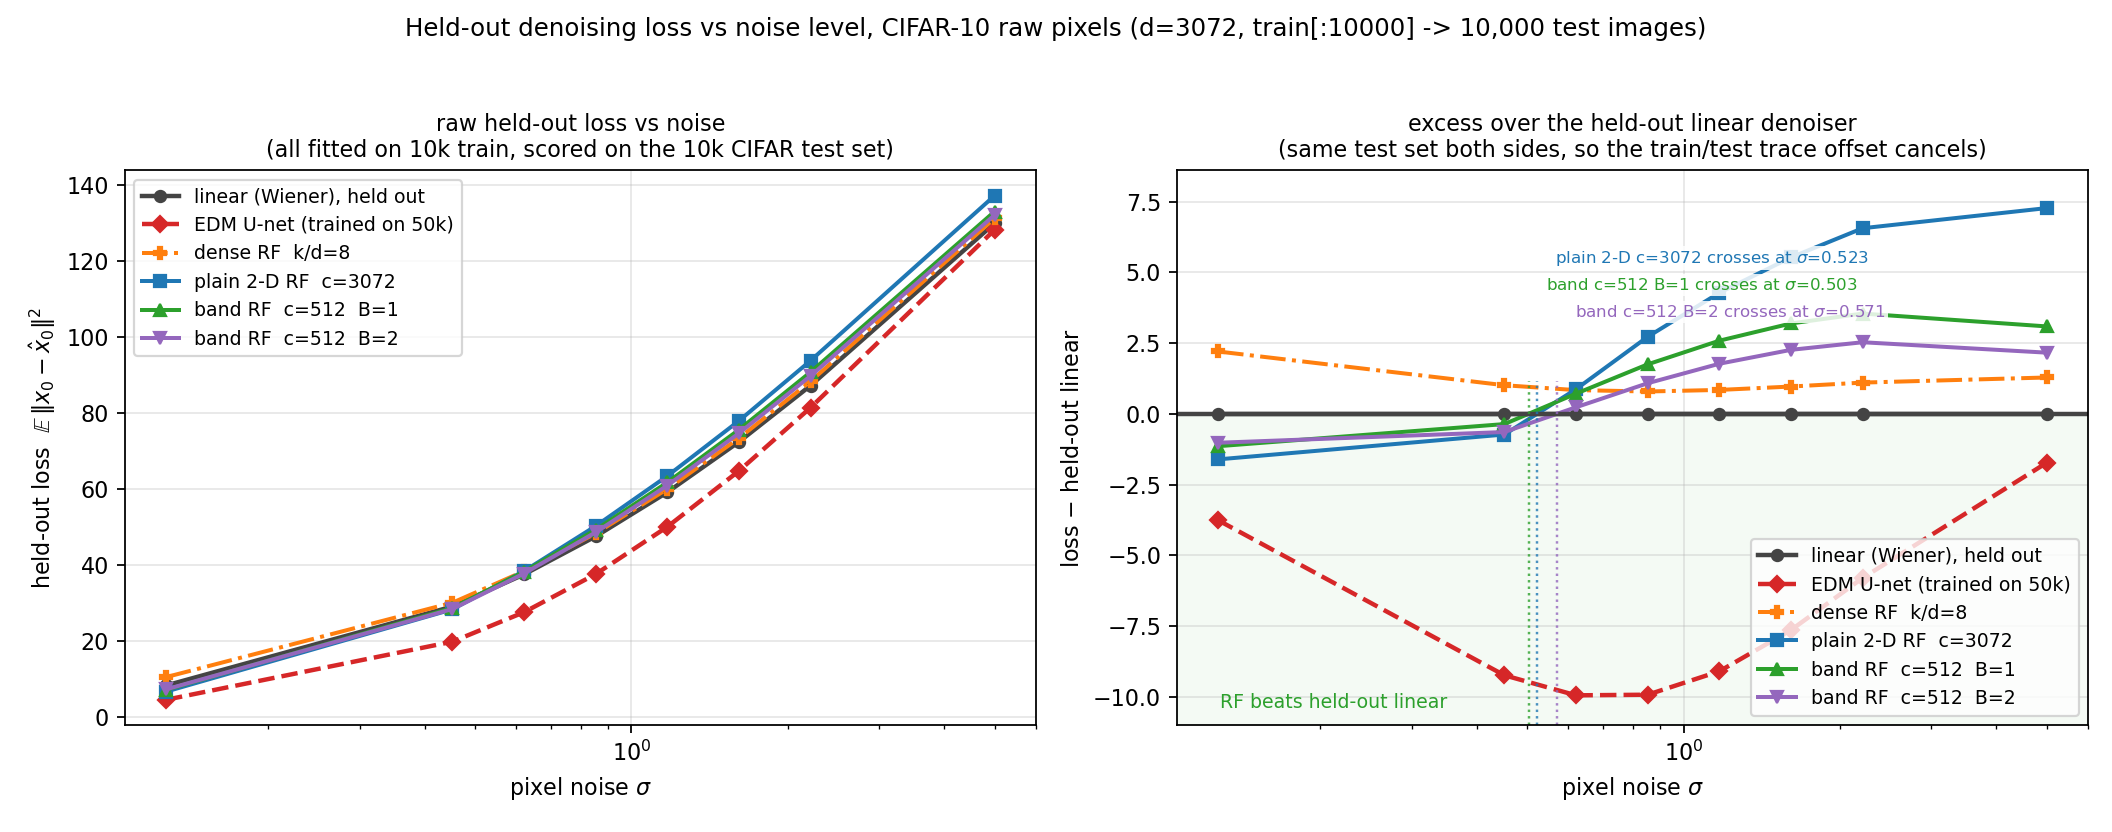
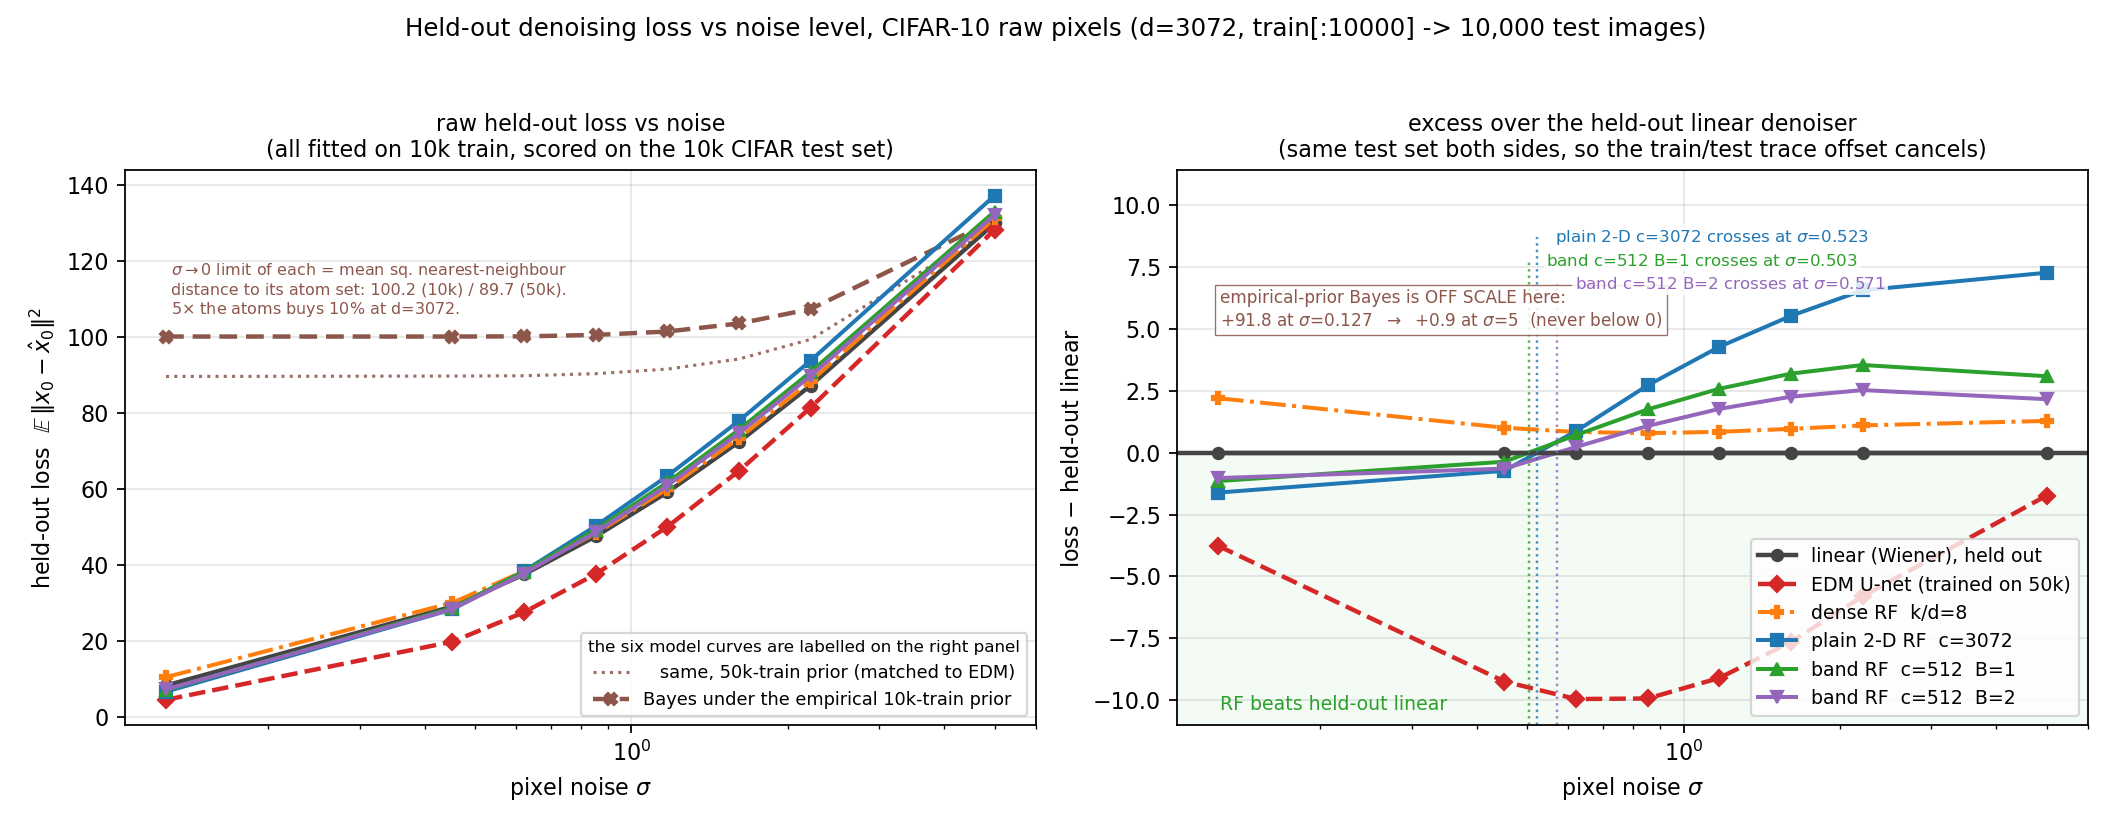
Add the held-out empirical-prior Bayes oracle to the loss-vs-noise figure
michimin 2026-09-23 21:28: "add bayes oracle to the graph".

The oracle that exists in this project (bayes_uncond in dnn_feature_mmse_*.png) was
RETRACTED on 2026-08-10: it evaluates the posterior mean over N=10^4 atoms on noised
versions of THOSE SAME ATOMS, N_eff = 1.00 at every sigma <= 1.61, so its MMSE -> 0 is
memorisation and it lower-bounds nothing.  scripts/bayes_oracle_heldout.py fixes it by the
single substitution atoms = train[:10000], targets = the 10,000 CIFAR TEST images: the
exact Bayes risk of the empirical TRAINING prior, measured on data it has never seen.

It is NOT a lower bound on the plot and is not described as one -- the population Bayes
risk is unestimable at d=3072 with 10^4 atoms.  It is a reference for one specific
question: what does a model that reproduces its empirical training prior perfectly score
on held-out images?

Five asserted validations, all exact: brute force vs an explicit python loop at two sigma;
sigma->inf must equal E||x0_test - mu_train||^2; sigma->0 held out must equal the mean
squared nearest-neighbour distance (0.0e+00); sigma->0 in sample must be ~0, which
regenerates the retracted artefact on demand.

Results (NREP=4, tables/bayes_oracle_heldout.npz):
  - the held-out oracle NEVER beats linear, at any sigma, and is +91.8 behind at 0.127;
  - its low-sigma plateau IS the mean squared NN distance (100.1735 vs 100.1578);
  - N_eff = 1.00 at low sigma in BOTH columns.  The difference is not the posterior's
[…]

diff --git a/scripts/bayes_oracle_heldout.py b/scripts/bayes_oracle_heldout.py
@@ -1,0 +1,205 @@
+"""THE BAYES ORACLE FOR THE EMPIRICAL TRAINING PRIOR, HELD OUT (michimin, 2026-09-23 21:28
+"add bayes oracle to the graph").
+
+*** THE IN-SAMPLE VERSION OF THIS CURVE WAS RETRACTED ON 2026-08-10 AND MUST NOT GO ON THE
+PLOT.  THE HELD-OUT VERSION IS A DIFFERENT AND WELL-POSED OBJECT.  READ THIS BEFORE USING
+EITHER. ***
+
+The `bayes_uncond` curve in figures/dnn_feature_mmse_*.png is the posterior mean under the
+EMPIRICAL measure on N = 10^4 CIFAR atoms, evaluated on noised versions of THOSE SAME ATOMS.
+Its reported MMSE falls to ~0 below sigma ~ 0.5, and that is not a property of CIFAR: the
+posterior effective support N_eff = exp(H(w)) measured 1.00 at every sigma <= 1.61, i.e. the
+posterior is a point mass on the very image that generated y.  It is a memoriser being
+scored on its own training set, so it is a LOWER bound on nothing and an oracle for nothing.
+
+Held out, the same estimator becomes meaningful and the pathology disappears by construction:
+
+    x_hat(y) = sum_j w_j x_j,   w_j prop exp(-||y - x_j||^2 / 2 sigma^2),   x_j in TRAIN,
+    L = E_test || x0 - x_hat(x0 + sigma z) ||^2,                            x0 in TEST.
+
+The atoms are the 10,000 TRAIN images and the thing being denoised is a TEST image the atom
+set does not contain, so no weight can ever collapse onto the answer.  What this measures is
+the exact Bayes risk of the EMPIRICAL TRAINING PRIOR on held-out data -- i.e. the loss of a
+model that has learned the training distribution PERFECTLY and learned nothing beyond it.
+That is exactly the object a diffusion model is fitted to approximate, which makes it the
+right reference to put next to EDM: EDM is an approximation to this, and anywhere EDM BEATS
+it, the approximation is generalising rather than reproducing its prior.
+
+⚠ SO IT IS NOT A LOWER BOUND ON THE PLOT AND MUST NOT BE DESCRIBED AS ONE.  The true Bayes
+risk is under the POPULATION prior, which is unestimable at d = 3072 with 10^4 atoms (the
+2026-08-10 N_eff finding: you would need N growing like exp(d)).  The empirical prior is a
+mis-specified prior, and at small sigma it is a very bad one -- it puts all its mass on 10^4
+points and the test image is not one of them.  Expect this curve to be WORSE than linear at
+low sigma, which is the whole point of showing it.
+
+Same contract as every other curve on figures/rf_heldout_band_vs_sigma.png: fitted (here:
+its atoms) on CIFAR train[:10000], scored on the 10,000 CIFAR TEST images.
+
+    NREP=4 python scripts/bayes_oracle_heldout.py
+"""
+import sys, os, time
+sys.path.insert(0, os.path.dirname(os.path.dirname(os.path.abspath(__file__))))
+import numpy as np, torch
+from scripts.rf_pixel_heldout import load, linear_split, DEV, DT, d
+
+SIGS = [float(x) for x in
+        os.environ.get('SIGS', '0.127,0.452,0.621,0.853,1.172,1.610,2.212,5.0').split(',')]
+NIMG = int(os.environ.get('NIMG', '10000'))
+NTEST = int(os.environ.get('NTEST', '10000'))
+NREP = int(os.environ.get('NREP', '4'))
+CHUNK = int(os.environ.get('CHUNK', '500'))
+OUT = os.environ.get('OUT', 'tables/bayes_oracle_heldout.npz')
+
+
+def oracle(atoms, targets, sg, nrep, seed0=0, chunk=CHUNK, want_neff=True):
+    """Posterior mean under the empirical measure on `atoms`, scored on `targets`.
+
+    Returns (mean loss, standard error over the nrep sweeps, median N_eff).
+
+    `atoms` and `targets` are the SAME tensor for the in-sample (memorising) variant and
+    different splits for the held-out one -- that single substitution is the entire
+    difference between the retracted curve and the usable one.
+    """
+    # dimension is inferred, NOT taken from the module-level d -- the validation below runs
+    # 3x4x4 toys through this same function.
+    A = atoms.reshape(atoms.shape[0], -1)
+    T = targets.reshape(targets.shape[0], -1)
+    a2 = (A * A).sum(1)                                   # ||x_j||^2, once
+    per_rep, neffs = [], []
+    for r in range(nrep):
+        g = torch.Generator(device=DEV).manual_seed(4200 + 17 * r)
+        tot, cnt = 0.0, 0
+        for i in range(0, T.shape[0], chunk):
+            x0 = T[i:i + chunk]
+            y = x0 + sg * torch.randn(x0.shape, generator=g, device=DEV, dtype=DT)
+            # ||y - x_j||^2 = ||y||^2 - 2 y.x_j + ||x_j||^2; the ||y||^2 term is constant
+            # across j inside the softmax and is dropped.
+            logw = -(a2.view(1, -1) - 2.0 * (y @ A.T)) / (2.0 * sg ** 2)
+            w = torch.softmax(logw, dim=1)
+            xh = w @ A
+            tot += float(((x0 - xh) ** 2).sum())
+            cnt += x0.shape[0]
+            if want_neff and r == 0:
+                lw = torch.log(w.clamp_min(1e-300))
+                neffs.append(torch.exp(-(w * lw).sum(1)))
+        per_rep.append(tot / cnt)
+    v = np.array(per_rep)
+    ne = float(torch.cat(neffs).median()) if neffs else float('nan')
+    return float(v.mean()), float(v.std(ddof=1) / np.sqrt(len(v))) if len(v) > 1 else 0.0, ne
+
+
+def _validate():
+    """(a) brute force, (b) the sigma -> infinity limit, (c) the sigma -> 0 limits.
+
+    (a) is the one that would catch an algebra error; (b) and (c) pin the two ends against
+    quantities computed by completely different code (a mean, and a nearest-neighbour search).
+    """
+    g = torch.Generator(device=DEV).manual_seed(7)
+    A = torch.randn(40, 3, 4, 4, generator=g, device=DEV, dtype=DT) * 1.3 + 0.2
+    T = torch.randn(11, 3, 4, 4, generator=g, device=DEV, dtype=DT) * 0.9
+    dd = 3 * 4 * 4
+    for sg in (0.4, 1.3):
+        got, _, _ = oracle(A, T, sg, 1, chunk=3)
+        # explicit python loop over the same definition
+        gen = torch.Generator(device=DEV).manual_seed(4200)
+        Af, Tf = A.reshape(40, dd), T.reshape(11, dd)
+        tot = 0.0
+        for i in range(0, 11, 3):
+            x0 = Tf[i:i + 3]
+            y = x0 + sg * torch.randn(x0.shape, generator=gen, device=DEV, dtype=DT)
+            for k in range(x0.shape[0]):
+                lg = torch.tensor([-float(((y[k] - Af[j]) ** 2).sum()) / (2 * sg ** 2)
+                                   for j in range(40)], device=DEV, dtype=DT)
+                ww = torch.exp(lg - lg.max()); ww = ww / ww.sum()
+                tot += float(((x0[k] - ww @ Af) ** 2).sum())
+        ref = tot / 11
+        rel = abs(got - ref) / abs(ref)
+        print(f"  brute force sigma={sg}: {got:.10f} vs {ref:.10f}  rel={rel:.1e} "
+              f"{'OK' if rel < 1e-12 else 'FAIL'}")
+        assert rel < 1e-12
+    # (b) sigma -> infinity: weights flatten, x_hat -> mean(atoms), so the loss must approach
+    # E||x0_test - mu_train||^2 -- computed here without any softmax at all.
+    big = 4000.0
+    got, _, ne = oracle(A, T, big, 1, chunk=5)
+    mu = A.reshape(40, dd).mean(0)
+    ref = float(((T.reshape(11, dd) - mu) ** 2).sum(1).mean())
+    print(f"  sigma->inf: {got:.6f} vs E||x0-mu_train||^2 = {ref:.6f}  "
+          f"rel={abs(got-ref)/ref:.1e}  N_eff={ne:.2f}/40 {'OK' if abs(got-ref)/ref < 2e-3 else 'FAIL'}")
+    assert abs(got - ref) / ref < 2e-3
+    # (c) sigma -> 0, held out: the posterior collapses onto the NEAREST atom, so the loss
+    # must approach the mean squared nearest-neighbour distance from test to train.
+    small = 1e-3
+    got, _, ne = oracle(A, T, small, 1, chunk=5)
+    D = torch.cdist(T.reshape(11, dd), A.reshape(40, dd)) ** 2
+    ref = float(D.min(1).values.mean())
+    print(f"  sigma->0 held out: {got:.6f} vs mean sq NN distance = {ref:.6f}  "
+          f"rel={abs(got-ref)/ref:.1e}  N_eff={ne:.3f} "
+          f"{'OK' if abs(got-ref)/ref < 1e-6 else 'FAIL'}")
+    assert abs(got - ref) / ref < 1e-6
+    # (c') sigma -> 0, IN SAMPLE: the atom set contains the answer, so the loss collapses to
+    # ZERO.  This is the memorisation the 2026-08-10 retraction is about, reproduced on demand.
+    got, _, ne = oracle(A, A, small, 1, chunk=5)
+    print(f"  sigma->0 IN SAMPLE: {got:.3e} (must be ~0 = the memorisation artefact)  "
+          f"N_eff={ne:.3f} {'OK' if got < 1e-9 else 'FAIL'}")
+    assert got < 1e-9
+    return True
+
+
+def main():
+    print("validating:", flush=True)
+    _validate()
+    Xtr, Xte = load(True, NIMG), load(False, NTEST)
+    Xtr1, Xte1 = Xtr.reshape(NIMG, d), Xte.reshape(NTEST, d)
+    print(f"\nEMPIRICAL-PRIOR BAYES ORACLE.  atoms = {NIMG} train, targets = {NTEST} test, "
+          f"{NREP} noise sweeps each\n", flush=True)
+    # THE sigma -> 0 ASYMPTOTE OF THE HELD-OUT CURVE, computed WITHOUT any softmax: as sigma
+    # falls the posterior collapses onto the nearest train atom, so the loss must flatten onto
+    # the mean squared nearest-neighbour distance from test to train.  Storing it turns the
+    # low-sigma plateau into a checkable prediction rather than a shape on a plot.
+    nn = 0.0
+    for i in range(0, NTEST, 500):
+        nn += float((torch.cdist(Xte1[i:i + 500], Xtr1) ** 2).min(1).values.sum())
+    nn /= NTEST
+    print(f' mean squared NN distance, test -> train = {nn:.4f}   '
+          f'(= the sigma->0 limit of the held-out column below)\n', flush=True)
+    # *** THE 50,000-ATOM ORACLE IS THE MATCHED-PRIOR REFERENCE FOR EDM, AND WITHOUT IT THE
+    # EDM COMPARISON IS RIGGED. ***  EDM saw all 50k CIFAR train images, so scoring it against
+    # a 10k-atom empirical prior charges it for a handicap it does not have: a denser atom set
+    # has a smaller nearest-neighbour distance and therefore a genuinely lower Bayes risk under
+    # its own prior.  Both oracles are scored on the SAME 10,000 test images as every other
+    # curve, so the 10k one stays matched to the RF arms and the 50k one is matched to EDM.
+    X50 = load(True, 50000)
+    X501 = X50.reshape(50000, d)
+    nn50 = 0.0
+    for i in range(0, NTEST, 500):
+        nn50 += float((torch.cdist(Xte1[i:i + 500], X501) ** 2).min(1).values.sum())
+    nn50 /= NTEST
+    print(f' mean squared NN distance, test -> train[:50000] = {nn50:.4f}   '
+          f'(only {100*(nn-nn50)/nn:.1f}% below the 10k figure -- 5x the atoms barely moves it '
+          f'at d=3072)\n', flush=True)
+    print(' sigma   Wiener_te  ORACLE_te     SE   vs Wiener |  in-sample   N_eff_te  N_eff_tr'
+          ' | 50k-atom  vs EDM')
+    store = {'nn_sq_test_to_train': np.array([nn]),
+             'nn_sq_test_to_train50': np.array([nn50]),
+             'trace_test': np.array([
+                 float((Xte1 ** 2).sum(1).mean()) - float((Xte1.mean(0) ** 2).sum())])}
+    for sg in SIGS:
+        t0 = time.time()
+        wtr, wte = linear_split(Xtr1, Xte1, sg)
+        te, se, ne_te = oracle(Xtr, Xte, sg, NREP)
+        ins, _, ne_tr = oracle(Xtr, Xtr, sg, 1)
+        te50, se50, ne50 = oracle(X50, Xte, sg, NREP)
+        store[f'oracle|{sg}'] = np.array([te, se, ins, ne_te, ne_tr])
+        store[f'oracle50|{sg}'] = np.array([te50, se50, ne50])
+        # [train, test], the SAME convention as every other held-out table in the project --
+        # rf_heldout_band_plot.py cross-checks this row against all of them and indexes [1].
+        store[f'linear|{sg}'] = np.array([wtr, wte])
+        print(f' {sg:5.3f} {wte:10.4f} {te:10.4f} {se:6.4f} {te-wte:+10.4f} | '
+              f'{ins:10.4f} {ne_te:10.2f} {ne_tr:9.2f} | {te50:9.4f}'
+              f'   [{time.time()-t0:.0f}s]', flush=True)
+        np.savez(OUT, **store)
+    print(f"\nwrote {OUT}", flush=True)
+
+
+if __name__ == '__main__':
+    main()

diff --git a/scripts/rf_heldout_band_plot.py b/scripts/rf_heldout_band_plot.py
@@ -55,15 +55,17 @@ D = load('tables/rf_pixel_dense_heldout.npz')    # dense, `{sigma}|{k/d}|dense`,
                                                  # string ('8.0', not '8') -- check before
                                                  # indexing, the spelling differs from every
                                                  # other table in the project.
+O = load('tables/bayes_oracle_heldout.npz')      # empirical-prior Bayes, `oracle|{sigma}` =
+                                                 # [test, se, in_sample, N_eff_te, N_eff_tr]
 
 sig = np.array(SIGS)
-W, EDM, EDMSE, P2, B1, B2, DN = ({} for _ in range(7))
+W, EDM, EDMSE, P2, B1, B2, DN, BO, BO50 = ({} for _ in range(9))
 NS = {}
 for s in SIGS:
     w = get(H, 'linear|{}', s)
-    # The SAME Wiener row is stored in all four tables (linear_split has no RNG).  Verify
+    # The SAME Wiener row is stored in all five tables (linear_split has no RNG).  Verify
     # rather than assume -- a mismatch would mean the splits moved underneath one of them.
-    for tag, z in (('band', B), ('edm', E), ('dense', D)):
+    for tag, z in (('band', B), ('edm', E), ('dense', D), ('oracle', O)):
         o = get(z, 'linear|{}', s)
         assert o is None or abs(o[1] - w[1]) < 1e-9, f'{tag} linear|{s} disagrees: {o} vs {w}'
     e = get(E, 'uncond-ve|{}', s)
@@ -71,10 +73,16 @@ for s in SIGS:
     b1 = np.atleast_2d(get(B, '{}|512|1', s))
     b2 = np.atleast_2d(get(B, '{}|512|2', s))
     dn = np.atleast_2d(get(D, '{}|8.0|dense', s))
+    bo = get(O, 'oracle|{}', s)
+    BO50[s] = get(O, 'oracle50|{}', s)[0]
     W[s], EDM[s], EDMSE[s] = w[1], e[2], e[3]
     P2[s], B1[s], B2[s] = p[:, 2].mean(), b1[:, 2].mean(), b2[:, 2].mean()
     DN[s] = dn[:, 2].mean()
+    BO[s] = bo[0]
     NS[s] = (len(p), len(b1), len(b2), len(dn))
+
+NNSQ = float(O['nn_sq_test_to_train'][0])     # mean squared nearest-neighbour distance,
+NNSQ50 = float(O['nn_sq_test_to_train50'][0])  # test -> train = the sigma->0 limit of BO
 
 series = [
     ('linear (Wiener), held out', W,   '#444444', 'o', '-',  2.0),
@@ -85,6 +93,13 @@ series = [
     ('band RF  c=512  B=2',       B2,  '#9467bd', 'v', '-',  1.8),
 ]
 
+# *** THE EMPIRICAL-PRIOR BAYES ORACLE GOES ON THE LEFT PANEL ONLY, AND THAT IS A DELIBERATE
+# CHOICE, NOT AN OVERSIGHT. ***  Its excess over linear runs +91.8 -> +0.9, while every other
+# curve on the right panel lives inside +-11; putting it there would compress the six curves
+# the panel exists to separate into a single line.  Its two endpoints are annotated on the
+# right instead, and the full column is printed below.
+ORACLE = ('Bayes under the empirical 10k-train prior', BO, '#8c564b', 'X', (0, (4, 2)), 2.0)
+
 print(' sigma   W_test    EDM_te  (se)  dense k/d=8   2D c=3072   B=1 c=512   B=2 c=512'
       '   seeds(2D,B1,B2,dense)')
 for s in SIGS:
@@ -93,7 +108,33 @@ for s in SIGS:
 print('\n excess over the HELD-OUT Wiener (negative = beats linear on the same 10k images):')
 for s in SIGS:
     print(f' {s:5.3f}  EDM {EDM[s]-W[s]:+8.4f}   dense {DN[s]-W[s]:+8.4f}   '
-          f'2D {P2[s]-W[s]:+8.4f}   B=1 {B1[s]-W[s]:+8.4f}   B=2 {B2[s]-W[s]:+8.4f}')
+          f'2D {P2[s]-W[s]:+8.4f}   B=1 {B1[s]-W[s]:+8.4f}   B=2 {B2[s]-W[s]:+8.4f}'
+          f'   | oracle {BO[s]-W[s]:+9.4f}')
+
+# *** WHY ONLY THE HELD-OUT ORACLE IS PLOTTABLE. ***  The in-sample column is the retracted
+# `bayes_uncond` curve of figures/dnn_feature_mmse_*.png: its atoms ARE its targets, so at
+# small sigma the posterior is a point mass on the image that generated y and the loss is
+# literally 0.  N_eff = exp(H(w)) is 1.00 in BOTH columns at low sigma -- the difference is
+# that in sample that single atom is the right answer and held out it is the wrong one.
+print('\n the empirical-prior Bayes oracle, and why the in-sample version is not on the plot:')
+print(f'  sigma   held out   vs Wiener |   IN SAMPLE   N_eff(test)  N_eff(train)')
+for s in SIGS:
+    bo = get(O, 'oracle|{}', s)
+    print(f'  {s:5.3f} {bo[0]:10.4f} {bo[0]-W[s]:+10.4f} | {bo[2]:11.4f} {bo[3]:12.2f} '
+          f'{bo[4]:13.2f}')
+print(f'  => the held-out curve flattens onto the mean squared NN distance {NNSQ:.4f} as '
+      f'sigma->0 (sigma=0.127 gives {BO[SIGS[0]]:.4f}, agreeing to {abs(BO[SIGS[0]]-NNSQ):.4f})')
+
+# *** EDM vs ITS OWN MATCHED-PRIOR ORACLE.  This is the strongest single statement the oracle
+# curve licenses, and it runs the OPPOSITE way to the worry it was built to test. ***  EDM saw
+# all 50k, so the 50k-atom oracle is exactly "what a model that reproduced its training prior
+# perfectly would score on these test images".  EDM beats it by more than an order of
+# magnitude at low sigma => whatever EDM is doing, it is not reproducing its empirical prior.
+print('\n EDM vs the 50k-atom oracle matched to its own training set:')
+print('  sigma   EDM_test   oracle50    ratio   | oracle10k   Wiener')
+for s in SIGS:
+    print(f'  {s:5.3f} {EDM[s]:10.4f} {BO50[s]:10.4f} {BO50[s]/EDM[s]:8.2f}x | '
+          f'{BO[s]:10.4f} {W[s]:8.4f}')
 
 # *** k/d=8 IS DENSE AT ITS WORST WIDTH AT LOW sigma. ***  Held out, dense is NON-MONOTONE in
 # k (in sample it is monotone -- that turnaround IS the overfitting), with a minimum at
@@ -119,9 +160,23 @@ def crossing(d):
 
 fig, ax = plt.subplots(1, 2, figsize=(13.2, 5.2))
 
+lab, d, col, mk, ls, lw = ORACLE
+ax[0].annotate(f'$\\sigma\\to0$ limit of each = mean sq. nearest-neighbour\n'
+               f'distance to its atom set: {NNSQ:.1f} (10k) / {NNSQ50:.1f} (50k).\n'
+               f'5$\\times$ the atoms buys {100*(NNSQ-NNSQ50)/NNSQ:.0f}% at d=3072.',
+               (0.13, NNSQ), xytext=(0, 8), textcoords='offset points',
+               fontsize=7.2, color=col, va='bottom')
+ax[0].plot(sig, [BO50[s] for s in SIGS], color=col, ls=':', lw=1.4, alpha=0.85,
+           label='   same, 50k-train prior (matched to EDM)')
+ax[0].plot(sig, [d[s] for s in SIGS], color=col, ls=ls, marker=mk, ms=5, lw=lw, label=lab)
+
 for lab, d, col, mk, ls, lw in series:
     y = [d[s] for s in SIGS]
-    ax[0].plot(sig, y, ls, color=col, marker=mk, ms=5, lw=lw, label=lab)
+    # NO label on the left panel -- the six model curves are identical in colour and marker on
+    # both panels, so one legend (on the right, where there is empty space below the zero line)
+    # serves both.  A second copy here had to sit on top of the sigma=0.5-1.2 octave, which is
+    # exactly the part of the left panel worth looking at.
+    ax[0].plot(sig, y, ls, color=col, marker=mk, ms=5, lw=lw)
     ax[1].plot(sig, [d[s] - W[s] for s in SIGS], ls, color=col, marker=mk, ms=5, lw=lw,
                label=lab)
 
@@ -130,7 +185,9 @@ ax[0].set_xlabel(r'pixel noise $\sigma$')
 ax[0].set_ylabel(r'held-out loss  $\mathbb{E}\,\|x_0-\hat{x}_0\|^2$')
 ax[0].set_title('raw held-out loss vs noise\n(all fitted on 10k train, scored on the 10k CIFAR test set)',
                 fontsize=10)
-ax[0].legend(fontsize=8.5, loc='upper left')
+ax[0].legend(fontsize=8.0, loc='lower right',
+             title='the six model curves are labelled on the right panel',
+             title_fontsize=7.5)
 ax[0].grid(alpha=0.3)
 
 ax[1].axhline(0, color='#444444', lw=2)
@@ -141,22 +198,33 @@ ax[1].set_title('excess over the held-out linear denoiser\n(same test set both s
                 'train/test trace offset cancels)', fontsize=10)
 ax[1].grid(alpha=0.3)
 ax[1].axhspan(-11, 0, color='#2ca02c', alpha=0.05, zorder=0)
-ax[1].set_ylim(-11, 8.6)
+# Headroom above the highest curve (+7.27) is deliberate: the three crossing labels sit in it
+# so they clear both the curves and the off-scale oracle note below them.
+YLO, YHI = -11.0, 11.4
+ax[1].set_ylim(YLO, YHI)
 # Crossing markers, staggered in y so the three labels (0.503 / 0.523 / 0.571) do not
 # collide -- they are within 14% of each other in sigma.
 for i, (lab, d, col, mk, ls, lw) in enumerate(series[1:]):
     xc = crossing(d)
     if xc is None:
         continue
-    ax[1].axvline(xc, color=col, ls=':', lw=1.1, alpha=0.8, ymax=0.62)
+    ylab = 10.6 - 0.95 * i
+    ax[1].axvline(xc, color=col, ls=':', lw=1.1, alpha=0.8,
+                  ymax=(ylab - YLO) / (YHI - YLO))
     short = {'plain 2-D RF  c=3072': 'plain 2-D c=3072',
              'band RF  c=512  B=1': 'band c=512 B=1',
              'band RF  c=512  B=2': 'band c=512 B=2'}.get(lab, lab)
     ax[1].annotate(f'{short} crosses at $\\sigma$={xc:.3f}',
-                   (xc, 7.4 - 0.95 * i), xytext=(8, 0), textcoords='offset points',
+                   (xc, ylab), xytext=(8, 0), textcoords='offset points',
                    ha='left', va='center', fontsize=7.5, color=col, zorder=6,
                    bbox=dict(fc='white', ec='none', alpha=0.85, pad=1.2))
 ax[1].annotate('RF beats held-out linear', (0.128, -10.4), fontsize=8.5, color='#2ca02c')
+ax[1].annotate(f'empirical-prior Bayes is OFF SCALE here:\n'
+               f'{BO[SIGS[0]]-W[SIGS[0]]:+.1f} at $\\sigma$={SIGS[0]}  $\\to$  '
+               f'{BO[SIGS[-1]]-W[SIGS[-1]]:+.1f} at $\\sigma$={SIGS[-1]:g}  '
+               f'(never below 0)',
+               (0.128, 5.1), fontsize=7.6, color=ORACLE[2],
+               bbox=dict(fc='white', ec=ORACLE[2], alpha=0.85, lw=0.6, pad=2.0))
 ax[1].legend(fontsize=8.5, loc='lower right')
 
 fig.suptitle('Held-out denoising loss vs noise level, CIFAR-10 raw pixels '
